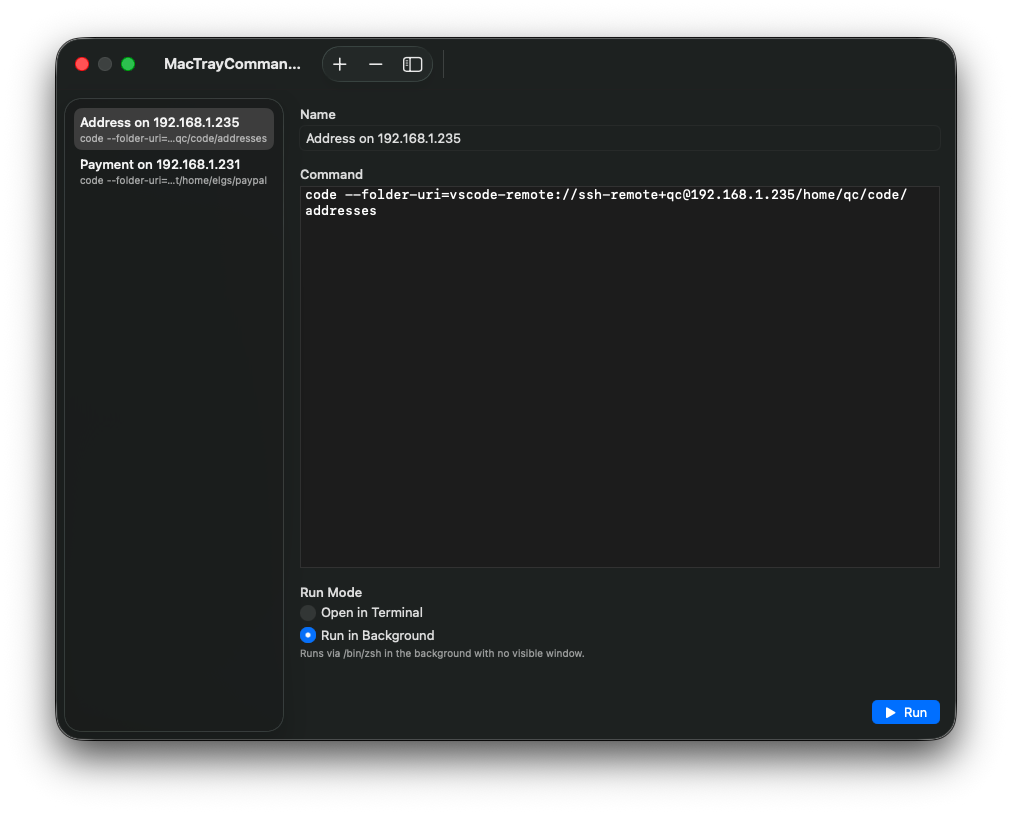
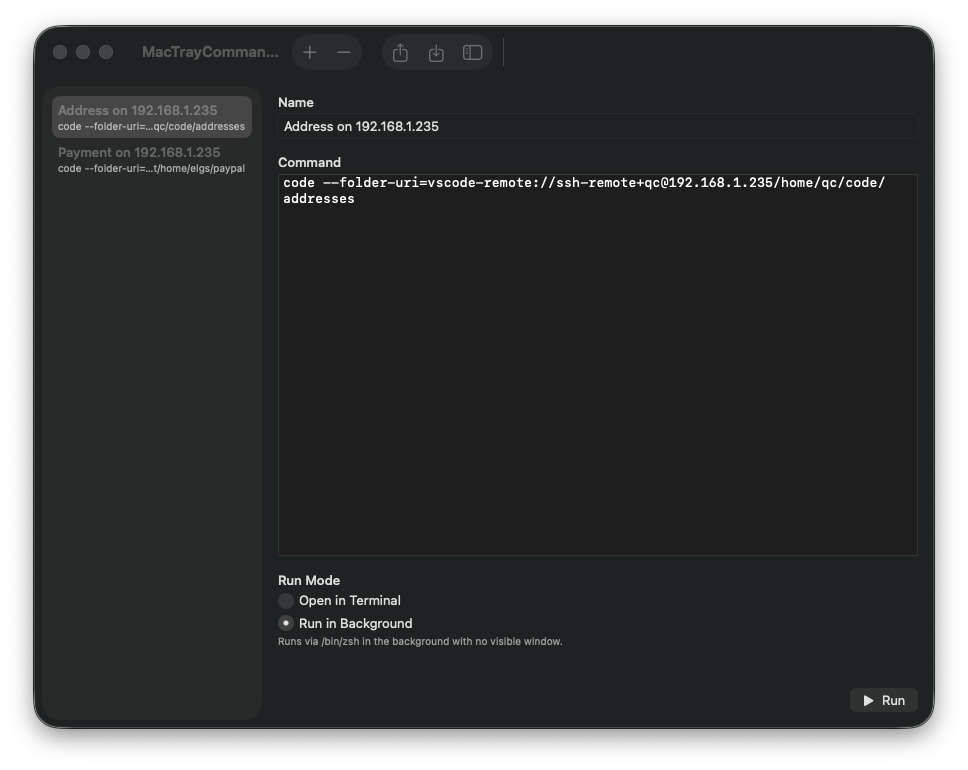
Update.

Changed region(s): [[0.031, 0.0312, 0.9917, 0.9662], [0.2789, 0.7169, 0.5888, 0.8416]]

diff --git a/MacTrayCommands/Views/CommandListView.swift b/MacTrayCommands/Views/CommandListView.swift
@@ -1,4 +1,5 @@
 import SwiftUI
+import AppKit
 
 struct CommandListView: View {
     @ObservedObject var store: CommandStore
@@ -27,6 +28,17 @@ struct CommandListView: View {
                     Image(systemName: "minus")
                 }
                 .disabled(selectedID == nil)
+
+                Spacer()
+
+                Button(action: exportCommands) {
+                    Image(systemName: "square.and.arrow.up")
+                }
+                .help("Export commands")
+                Button(action: importCommands) {
+                    Image(systemName: "square.and.arrow.down")
+                }
+                .help("Import commands")
             }
         }
     }
@@ -37,6 +49,39 @@ struct CommandListView: View {
         DispatchQueue.main.async {
             selectedID = new.id
         }
+    }
+
+    private func exportCommands() {
+        let panel = NSSavePanel()
+        panel.allowedContentTypes = [.json]
+        panel.nameFieldStringValue = "commands.json"
+        guard panel.runModal() == .OK, let url = panel.url else { return }
+        let encoder = JSONEncoder()
+        encoder.outputFormatting = [.prettyPrinted, .sortedKeys]
+        guard let data = try? encoder.encode(store.commands) else { return }
+        try? data.write(to: url, options: .atomic)
+    }
+
+    private func importCommands() {
+        let panel = NSOpenPanel()
+        panel.allowedContentTypes = [.json]
+        panel.allowsMultipleSelection = false
+        guard panel.runModal() == .OK, let url = panel.url else { return }
+        guard let data = try? Data(contentsOf: url),
+              let imported = try? JSONDecoder().decode([Command].self, from: data)
+        else {
+            let alert = NSAlert()
+            alert.messageText = "Invalid file"
+            alert.informativeText = "The file is not a valid commands JSON file."
+            alert.runModal()
+            return
+        }
+        // Assign new IDs to avoid duplicates
+        for var command in imported {
+            command.id = UUID()
+            store.add(command)
+        }
+        selectedID = store.commands.last?.id
     }
 
     private func removeSelected() {

diff --git a/README.md b/README.md
@@ -24,6 +24,7 @@
 - **Settings UI** — add, edit, and remove commands with a native SwiftUI interface
 - **Launch at Login** — toggle from the menu
 - **Signed and notarized** — no Gatekeeper warnings
+- **Import/Export** — share or back up your commands as JSON
 - **Persistent config** — commands saved to `~/Library/Application Support/MacTrayCommands/commands.json`
 
 ## Install
